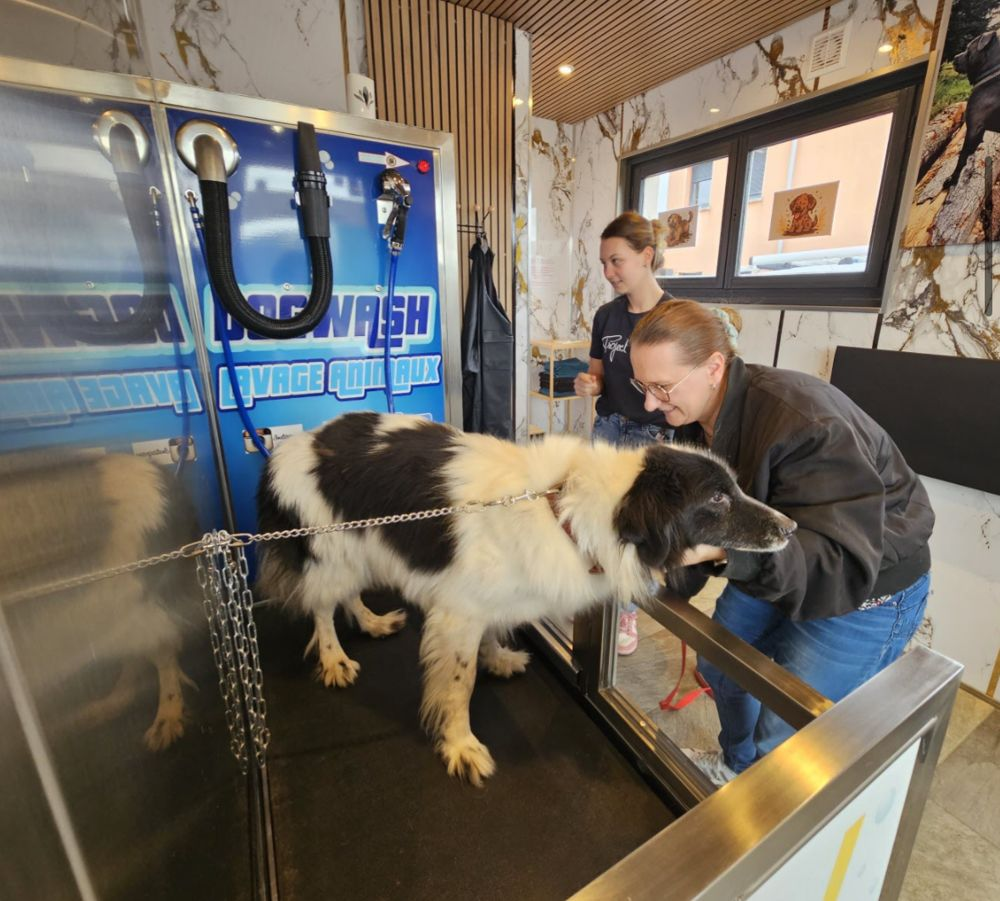
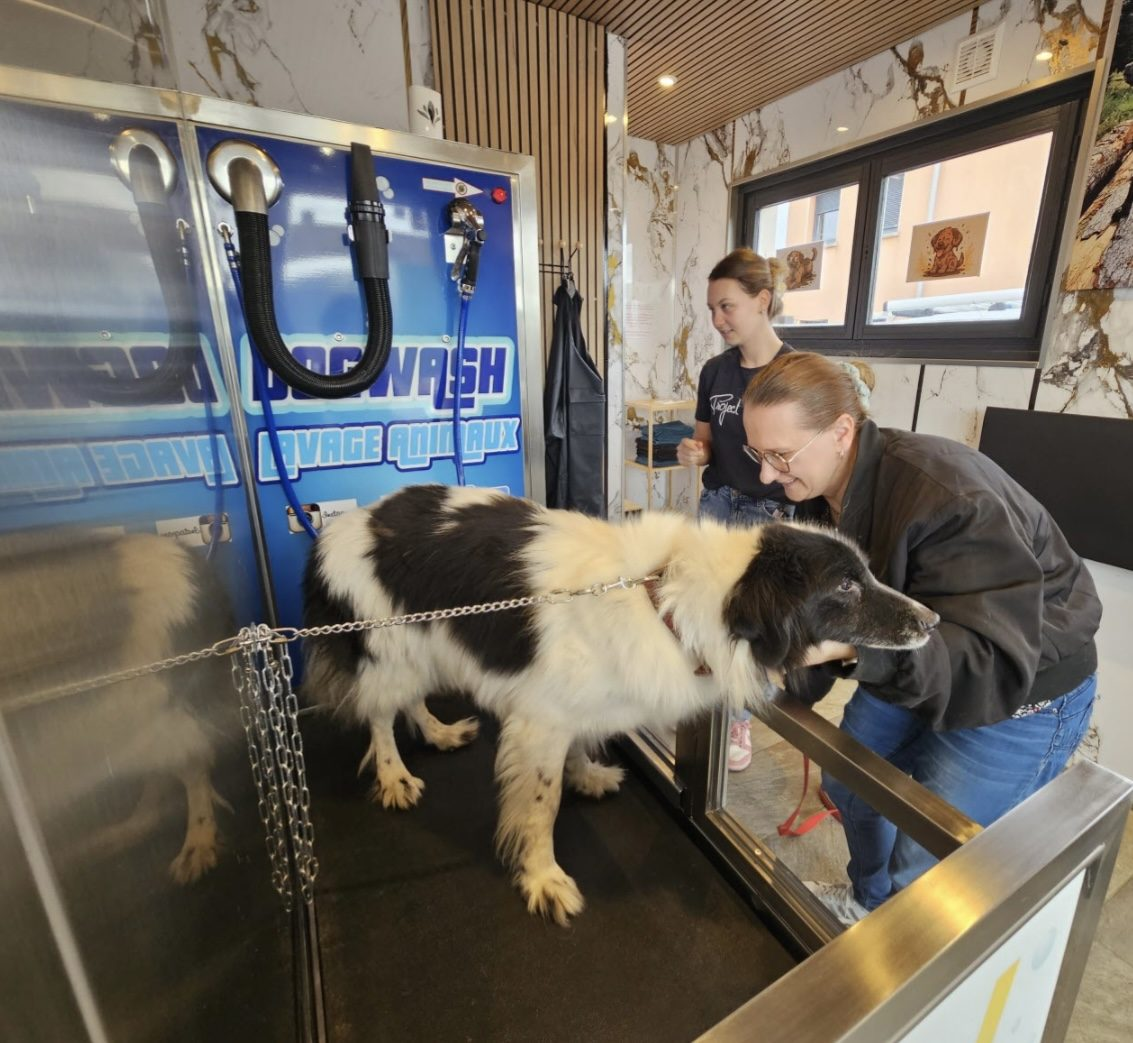
Photos de presse en meilleure qualité
Claude-Session: https://claude.ai/code/session_017fivYof2k8FP7HS3y5p2U8

diff --git a/index.html b/index.html
@@ -221,9 +221,9 @@
         </div>
       </div>
       <div class="press">
-        <figure><img src="assets/img/presse-zuleyha.jpg" alt="Zuleyha Tasdelen, créatrice de Loki Wash, devant l'installation de lavage des chiens" loading="lazy" width="1000" height="761"><figcaption>Zuleyha Tasdelen devant l'installation. <span>© Radio France - Christophe Mey</span></figcaption></figure>
-        <figure><img src="assets/img/presse-est-republicain.jpg" alt="Un chien noir et blanc lavé dans le bac Loki Wash" loading="lazy" width="1000" height="901"><figcaption>Un bain chez Loki Wash. <span>© L'Est Républicain</span></figcaption></figure>
-        <figure><img src="assets/img/presse-ici-lavage.jpg" alt="Une propriétaire lave elle-même son chien dans le bac Loki Wash" loading="lazy" width="1000" height="547"><figcaption>Les propriétaires lavent eux-mêmes leur chien. <span>© Radio France - Christophe Mey</span></figcaption></figure>
+        <figure><img src="assets/img/presse-zuleyha.jpg" alt="Zuleyha Tasdelen, créatrice de Loki Wash, devant l'installation de lavage des chiens" loading="lazy" width="1036" height="798"><figcaption>Zuleyha Tasdelen devant l'installation. <span>© Radio France - Christophe Mey</span></figcaption></figure>
+        <figure><img src="assets/img/presse-est-republicain.jpg" alt="Un chien noir et blanc lavé dans le bac Loki Wash" loading="lazy" width="1133" height="1043"><figcaption>Un bain chez Loki Wash. <span>© L'Est Républicain</span></figcaption></figure>
+        <figure><img src="assets/img/presse-ici-lavage.jpg" alt="Une propriétaire lave elle-même son chien dans le bac Loki Wash" loading="lazy" width="1024" height="577"><figcaption>Les propriétaires lavent eux-mêmes leur chien. <span>© Radio France - Christophe Mey</span></figcaption></figure>
       </div>
     </section>
 
